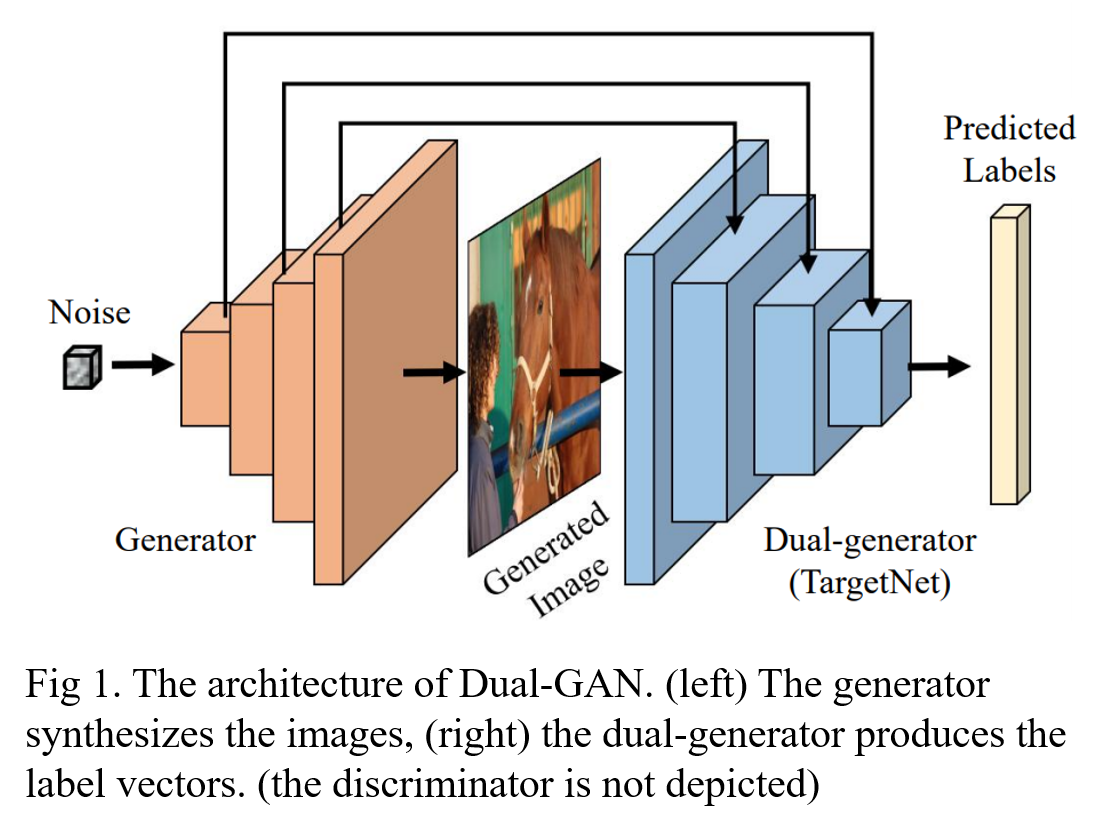
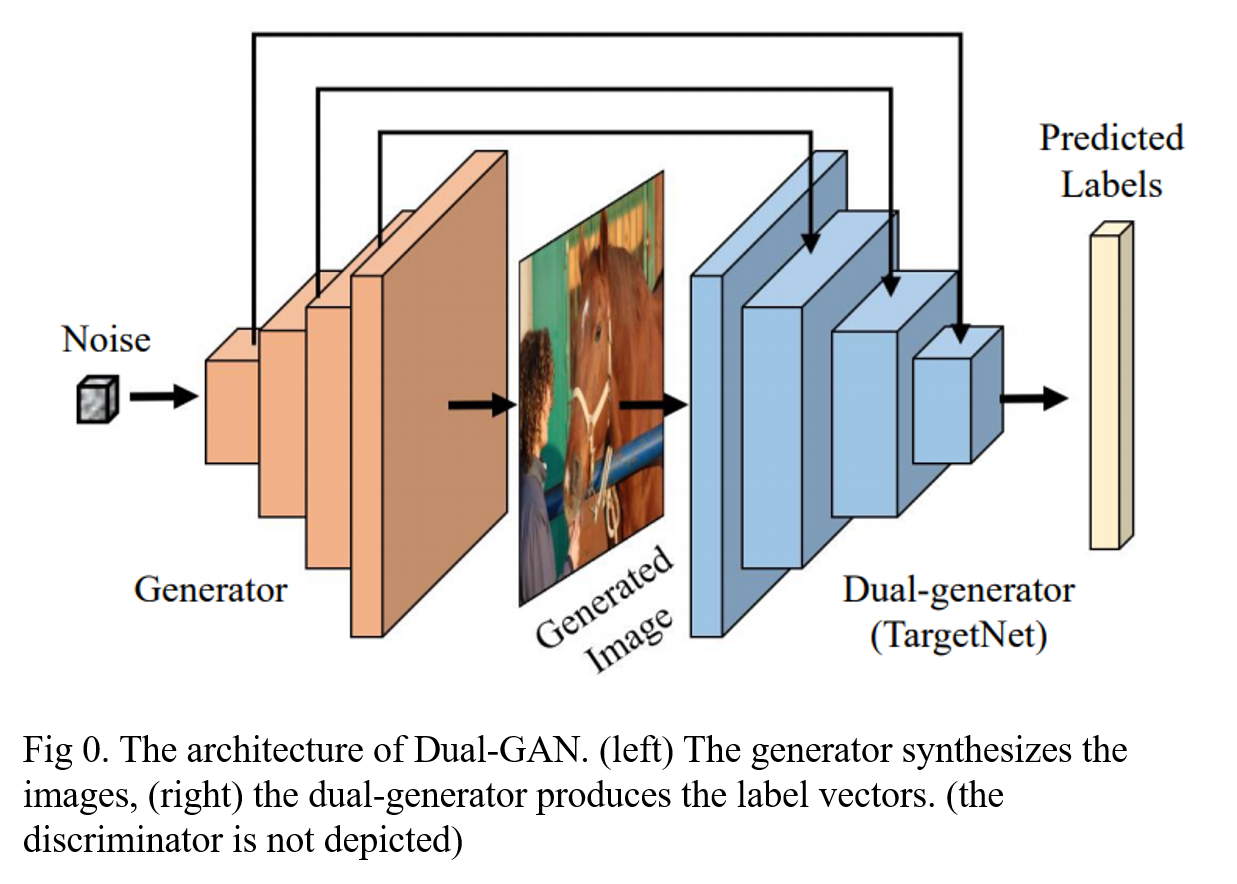
upload

Changed region(s): [[0.0304, 0.0312, 0.974, 0.75], [0.0, 0.7812, 0.974, 0.9688]]

diff --git a/_posts/2020-08-24-Data_Free_Knowledge_Amalgamation_via_Group-Stack_Dual-GAN.md b/_posts/2020-08-24-Data_Free_Knowledge_Amalgamation_via_Group-Stack_Dual-GAN.md
@@ -21,10 +21,10 @@ To tackle this problem, it is a necessary to reconstruct a dataset for training 
 
 For this, the main idea is to construct the group-stack generative adversarial networks (GANs) which have two dual generators. First, **one generator** is trained to collect the knwoledge by reconstructing the images approximating the original dataset. Then, a **dual generator (** is trained by taking the output from the former generator as input. Finally, we treat the dual part generator as the **TargetNet (Student network)** and regroup it.
 
-The architecture of Dual-GAN is shown in Fig 1.
+The architecture of Dual-GAN is shown in Fig 0.
 
 
-![1](https://da2so.github.io/assets/post_img/2020-08-24-Data_Free_Knowledge_Amalgamation_via_Group-Stack_Dual-GAN/1.png){: .mx-auto.d-block width="60%", height="50%" :}
+![1](https://da2so.github.io/assets/post_img/2020-08-24-Data_Free_Knowledge_Amalgamation_via_Group-Stack_Dual-GAN/1.png){: .mx-auto.d-block width="50%", height="50%" :}
 
 
 ## 2. Problem Definiton
@@ -52,6 +52,12 @@ The process of obtaining the well-behaved TargetNet with the proposed data-free 
 2. The dual generator <span style="color:DodgerBlue">$\mathcal{T} (\mathcal{I}): \mathcal{I} \rightarrow Y_{cst}$</span> is trained with generated samples from <span style="color:DodgerBlue">$G$</span> in the block-wise way to produce multiple predict labels. Note tha <span style="color:DodgerBlue">$Y_{cst}$</span> is the predicted labels.
 
 3. After training the whole dual-GAN, The dual-generator is modified as TargetNet for classifying the customized label sete <span style="color:DodgerBlue">$Y_{cst}$</span>
+
+
+The overall training procedure of group-stack GAN is depicted in Fig 1. 
+
+
+![1](https://da2so.github.io/assets/post_img/2020-08-24-Data_Free_Knowledge_Amalgamation_via_Group-Stack_Dual-GAN/5.png){: .mx-auto.d-block width="100%":}
 
 ### <span style="color:gray"> 3.1 Amalgamating GAN </span>
 
@@ -104,7 +110,7 @@ D^j \leftarrow \bigcup^j_{i=1} \\{ \mathcal{A}^{B-j+i} \\} \quad \cdots Eq. (4)
 \\]
 </span>
 
-![3](https://da2so.github.io/assets/post_img/2020-08-24-Data_Free_Knowledge_Amalgamation_via_Group-Stack_Dual-GAN/3.png){: .mx-auto.d-block width="60%" :}
+![3](https://da2so.github.io/assets/post_img/2020-08-24-Data_Free_Knowledge_Amalgamation_via_Group-Stack_Dual-GAN/3.png){: .mx-auto.d-block width="80%" :}
 
 During the training for the group pair <span style="color:DodgerBlue">$\\{ G^j, D^j \\}$</span>, only <span style="color:DodgerBlue">$G^j$</span> is optimized with discriminator <span style="color:DodgerBlue">$D^j$</span> is fixed, whose output is for classifying multiple labels. We make use of several losses to constraint the output of <span style="color:DodgerBlue">$D^j$</span> to motivate the real data's response. 
 
@@ -161,7 +167,7 @@ F^{f,m}_g=f^j_m (F^j_g), \quad \cdots Eq. (9)
 where the filtering function <span style="color:DodgerBlue">$f^j_m$</span> is realized by a light learnable module consisting of a global pooling layer and two fully connected layers. <span style="color:DodgerBlue">$F^{j,m}_g$</span> is the filtered generated features that approaches the output feature distribution of <span style="color:DodgerBlue">$\mathcal{A}^{B-j}_m$</span>. The output of discriminator is donated as  <span style="color:DodgerBlue">$\mathcal{O}_m (F^j_g) = D^j_m (F^{j,m}_g$</span>.
 
 
-![3](https://da2so.github.io/assets/post_img/2020-08-24-Data_Free_Knowledge_Amalgamation_via_Group-Stack_Dual-GAN/4.png){: .mx-auto.d-block width="90%" :}
+![3](https://da2so.github.io/assets/post_img/2020-08-24-Data_Free_Knowledge_Amalgamation_via_Group-Stack_Dual-GAN/4.png){: .mx-auto.d-block width="100%" :}
 
 The for the generated features  <span style="color:DodgerBlue">$F^j_g$</span> from  <span style="color:DodgerBlue">$G^j$</span>, we collect from the multi-discriminator the  <span style="color:DodgerBlue">$M$</span> prediction sets  <span style="color:DodgerBlue">$\\{ \mathcal{O}_1(F^j_g), \cdots , \mathcal{O}_M (F^j_g) \\}$</span>, which are:
 
